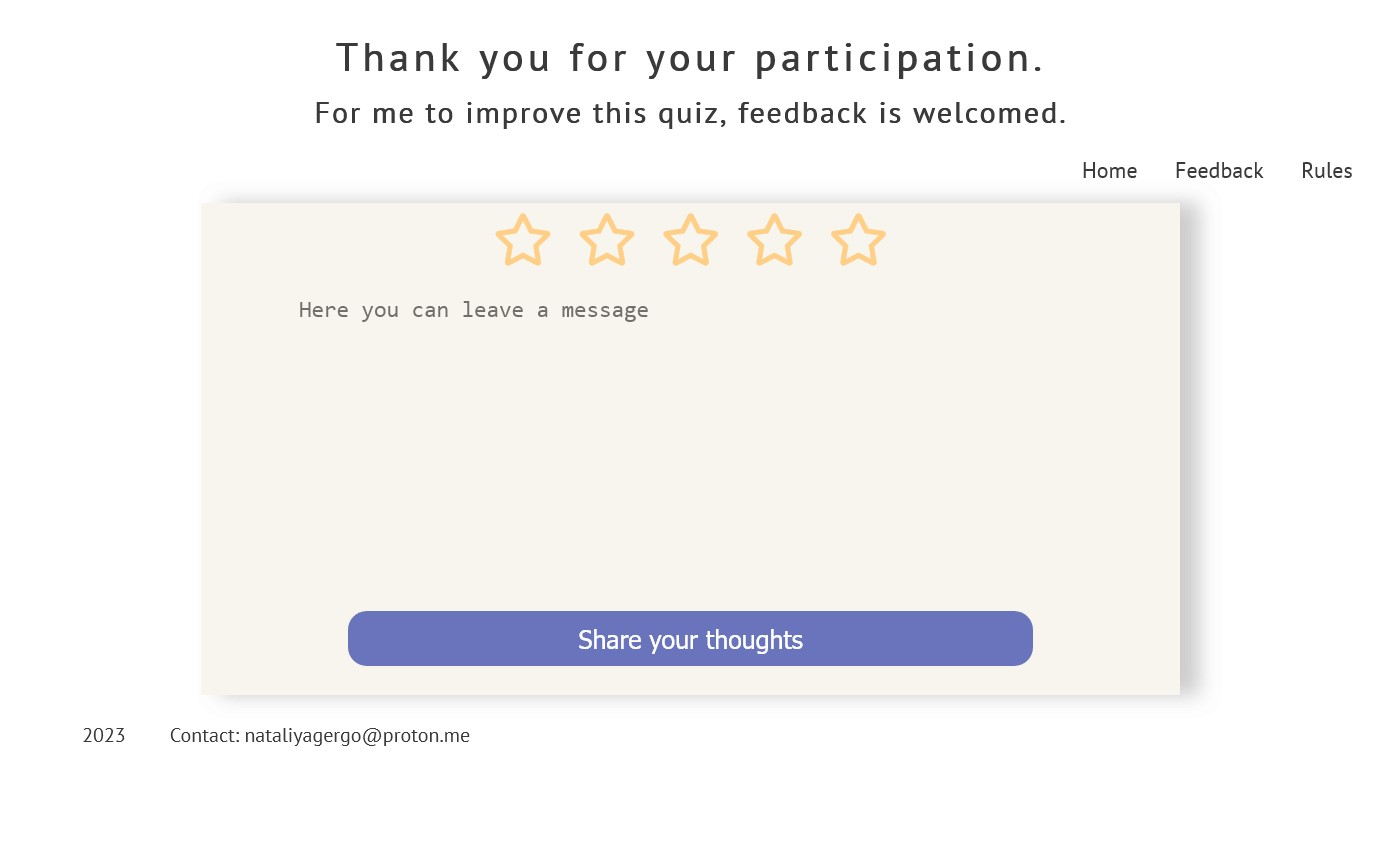
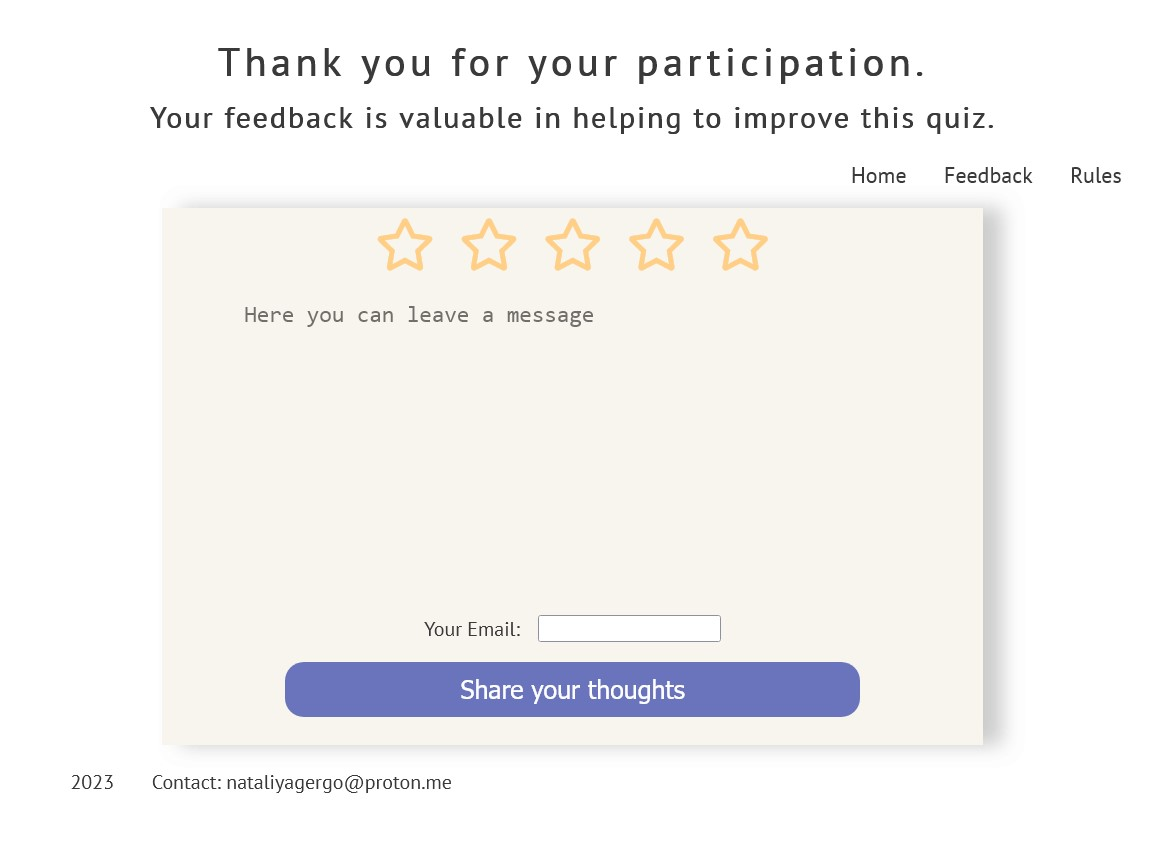
add pages croll overflow, edit feedback bottom

diff --git a/feedback.html b/feedback.html
@@ -9,7 +9,7 @@
     <meta name="keywords" content="quiz, test, logic, intellect, fun, logical game">
     <link rel="stylesheet" href="https://cdnjs.cloudflare.com/ajax/libs/font-awesome/5.12.0-1/css/all.min.css">
     <link rel="stylesheet" href="assets/css/style.css">
-    <title>Star rating feedback</title>
+    <title> Quiz feedback</title>
 </head>
 
 <body id="feedback-page">
@@ -33,27 +33,30 @@
     </header>
     <div>
         <div class="pack">
-    <div class="main_content">
-        <form action="https://formdump.codeinstitute.net" method="post" id="feedback-form" target="_blank" rel="noopener">
-            <input type="hidden" id="star-rating" name="starRating" value="">
-            <div class="stars">
-                <i class="star far fa-star" data-value="1"></i>
-                <i class="star far fa-star" data-value="2"></i>
-                <i class="star far fa-star" data-value="3"></i>
-                <i class="star far fa-star" data-value="4"></i>
-                <i class="star far fa-star" data-value="5"></i>
+            <div class="main_content">
+                <form action="https://formdump.codeinstitute.net" method="post" id="feedback-form" target="_blank"
+                    rel="noopener">
+                    <input type="hidden" id="star-rating" name="starRating" value="">
+                    <div class="stars">
+                        <i class="star far fa-star" data-value="1"></i>
+                        <i class="star far fa-star" data-value="2"></i>
+                        <i class="star far fa-star" data-value="3"></i>
+                        <i class="star far fa-star" data-value="4"></i>
+                        <i class="star far fa-star" data-value="5"></i>
+                    </div>
+                    <textarea name="feedbackText" rows="10" placeholder="Here you can leave a message"></textarea>
+                    <div class="email-section"></div>
+                    <div class="email-input-group">
+                        <label for="email">Your Email:</label>
+                        <input type="text" id="email" name="email">
+                    </div>
+                    <p id="email-error"></p>
+
+                    <button id="feedback-field" class="button">Share your thoughts</button>
             </div>
-            <textarea name="feedbackText" rows="10" placeholder="Here you can leave a message"></textarea>
-            <div class="email-section"></div>
-            <div class="email-input-group">
-            <label for="email">Your Email:</label>
-            <input type="text" id="email" name="email"></div>
-            <p id="email-error"></p>
-            
-            <button class="button">Share your thoughts</button><br>
-            </div>
-        </form>
-    </div>
+            </form>
+
+        </div>
 
     </div>
     <footer>

diff --git a/rules.html b/rules.html
@@ -8,7 +8,7 @@
     <meta name="description" content="A quiz to test logic">
     <meta name="keywords" content="quiz, test, logic, intellect, fun, logical game">
     <link rel="stylesheet" href="assets/css/style.css">
-    <title>online-quiz</title>
+    <title>quiz rules</title>
 </head>
 
 <body>
@@ -28,6 +28,7 @@
             </ul>
         </nav>
     </header>
+    
     <div class="pack">
         <div class="main_content">
             <h2>Welcome to our Logic Quiz!</h2>
@@ -58,6 +59,7 @@
             We hope you enjoy the quiz and wish you the best of luck! <br> <br>
         </div>
     </div>
+    
     <footer>
         <div class="contact">
             <ul>

diff --git a/assets/css/style.css b/assets/css/style.css
@@ -8,6 +8,8 @@ body {
     overflow: hidden;
     font-family: PT Sans, Arial;
     color: #3a3a3a;
+    overflow-y: auto;
+    height: 100vh;
 }
 
 /*navigation links*/
@@ -189,7 +191,9 @@ textarea {
     font-size: 1.4em;
     outline: none;
 }
-
+#feedback-field{
+    margin-bottom: 15px;
+}
 .credit a {
     text-decoration: none;
 }

diff --git a/assets/js/script.js b/assets/js/script.js
@@ -271,6 +271,6 @@ document.addEventListener("DOMContentLoaded", function () {
                 btns[i].className = "button button_wrong";
             }
         }
-        setTimeout(Update, 2500); // Wait for a second and update the quiz
+        setTimeout(Update, 1500); // Wait for a second and update the quiz
     }
 });

diff --git a/README.md b/README.md
@@ -2,25 +2,27 @@
 
 ## overview
 
-This project is a web-based logic quiz designed to test users' logical and reasoning skills. Users can interact with a series of logic-based questions, view the rules, and provide feedback. Each question offers multiple-choice answers. The quiz tracks the user's score and displays a result at the end, based on this score. The user interface is updated as the user progresses through the quiz.
-
-Moreover, the latter part of the script is dedicated to a star-rating feedback system. It listens for click events on each star and updates the visual display of the stars, as well as a hidden input value. This feedback system allows users to rate the quiz after they complete it.
+This project is a web-based logic quiz designed to test users' logical and reasoning skills. Users can interact with a series of logic-based questions, view the rules, and provide feedback upon completion. <br>
+Each question in the quiz presents multiple-choice answers, and the system keeps track of the user's score. At the end of the quiz, the user receives a result based on their total score. The user interface dynamically updates as the user progresses through the quiz, reflecting real-time performance.<br>
+A significant enhancement in this version is the incorporation of client-side email validation in the feedback form. Now, the system checks the validity of the email provided by the user in real-time, and provides immediate feedback if the email format doesn't comply with the standard format, improving the overall user experience.<br>
+Furthermore, the project features a star-rating feedback system. This system listens for click events on each star and updates the visual display of the stars, as well as a hidden input value. This interactive and visual feedback system allows users to rate their experience with the quiz once they complete it. <br>
+Behind the scenes, we've also made significant improvements to the JavaScript logic to ensure the smooth functioning of the quiz and the feedback form, and prevent any conflicts between the two. We have separated the feedback page and the quiz page by adding a body id attribute to the HTML structure, allowing the different JavaScript functionalities to operate independently of each other.
 
 ![This is a screenshot of pages of the website](assets/images/screens.jpg "This is a screenshot of pages of the website")
 
 ## Features
 
--  Home Page: The home page introduces users to the quiz, providing them with the opportunity to test their logic.
+- Home Page: The home page introduces users to the quiz, providing them with the opportunity to test their logic.
 - Rules Page: The Rules page helps users familiarize themselves with the quiz structure, including how to answer questions, the scoring system, and how results are presented.
 - Feedback Page: The Feedback page offers users a platform to leave star ratings and textual feedback about their experiences with the quiz.
 
 ## Existing Features
 
 - Navigation Bar
-  - Featured on all three page and is identical in each page to allow for easy navigation.
-  - This section will allow users to easily navigate with all devices without having to revert to the previous page via the "back" button.
+  - Featured on all three page and is identical in each, allowing for easy navigation.
+  - This section allows users to easily navigate with all devices without having to revert to the previous page via the "back" button.
 - Logic Quiz
-  - The core feature of this application is a logic quiz. It is designed with various logical questions that test the user's ability to deduce and infer from the given information.
+  - The core feature of this application is a logic quiz designed with various logical questions that test the user's ability to deduce and infer from the given information.
 - Multiple Choice Questions
   - Each question in the quiz is a multiple-choice question. Users can choose one of the given options as their answer.
 - Automated Scoring
@@ -28,17 +30,23 @@ Moreover, the latter part of the script is dedicated to a star-rating feedback s
 - Dynamic Quiz Progression
   - As the user goes through the quiz, the user interface updates dynamically. The current question and multiple-choice options are displayed, and the question count is updated.
 - Answer Validation
-  - Once a user selects an answer, the app validates the answer. If the answer is correct, it is highlighted in green, and if the answer is incorrect, it is highlighted in red. The correct answer is also revealed if the user gets the question wrong. ![This is a screenshot of a page of the website](assets/images/medium_screen.jpg "This is a screenshot of a page of the website") ![This is a screenshot of a page of the website](assets/images/answers.jpg "This is a screenshot of a page of the website")
+  - Once a user selects an answer, the app validates the answer. If the answer is correct, it is highlighted in green, and if the answer is incorrect, it is highlighted in orange. The correct answer is also revealed if the user gets the question wrong. ![This is a screenshot of a page of the website](assets/images/medium_screen.jpg "This is a screenshot of a page of the website") ![This is a screenshot of a page of the website](assets/images/answers.jpg "This is a screenshot of a page of the website")
 - End-of-Quiz Results
   - At the end of the quiz, a result is displayed based on the user's total score. There are different results depending on the range in which the user's score falls.![This is a screenshot of a page of the website](assets/images/result.jpg "This is a screenshot of a page of the website")
-- Interactive Star Rating Feedback System ![This is a screenshot of a page of the website](assets/images/feedback_completed.jpg "This is a screenshot of a page of the website")
-  - After completing the quiz, users can provide feedback by giving a star rating. The rating system is interactive, with the stars changing color when clicked. The submitting page opens in a new window. ![This is a screenshot of a page of the website](assets/images/data.jpg "This is a screenshot of a page of the website")
+- Interactive Star Rating Feedback System ![This is a screenshot of a page of the website](assets/images/feedback_empty.jpg "This is a screenshot of a page of the website")
+- Client-Side Email Validation
+  - The feedback form now includes a client-side email validation feature. It checks the validity of the email entered by the user in real-time and provides immediate feedback if the email format doesn't comply with the standard.![This is a screenshot of a page of the website](assets/images/email_wrong.jpg "This is a screenshot of a page of the website")
+  - After completing the quiz, users can provide feedback by giving a star rating. The rating system is interactive, with the stars changing color when clicked. The user feedback is recorded in a separate feedback form that opens in a new window. ![This is a screenshot of a page of the website](assets/images/data.jpg "This is a screenshot of a page of the website")
+- Improved Script Logic
+
+  - Significant improvements have been made to the JavaScript logic to ensure the smooth functioning of the quiz and the feedback form, and prevent any conflicts between the two. The feedback page and the quiz page have been effectively separated using a body id attribute in the HTML structure.
+
 - Responsive Design
   - The quiz application is designed to work seamlessly across different device sizes and orientations, making it accessible to users on desktops, tablets, and smartphones.
 - Clean, User-Friendly Interface
   - The application boasts a clean, intuitive interface that makes it easy for users to navigate through the quiz and understand how to interact with the application.
 
-## UX
+## User Experiencr (UX)
 
 - Easy to Start
   - As soon as a user arrives at the application, they are greeted with the first question of the quiz, along with multiple-choice options. There's no need to navigate through menus or click a 'start' button, which provides a seamless start to the experience.
@@ -90,7 +98,7 @@ Manual testing of all links and necessary features was done in previously mentio
 | Quiz Answer Buttons | When clicked, the quiz starts | Clicked the Quiz answer buttons | Quiz started successfully |
 | Quiz Questions | The user is presented with a new question after answering the previous one | Answered a question in the quiz | The next question appeared |
 | Quiz results | After completing the quiz, the user is presented with their score | Completed the quiz | The user's score was displayed correctly |
-| Mobile Responsiveness | Site should be fully responsive on mobile devices | Tested site on different mobile devices | Site is fully responsive and functional on mobile devices |
+| Mobile Responsiveness | Site should be fully responsive on mobile devices | Tested site on different mobile devices | Site is fully responsive and functional on mobile devices |Email input validation|Input should validate whether user email is in correct format |Entered emails in different formats, both valid and invalid | Correctly validated email format, giving appropriate feedback for invalid formats|
 
 ## Manual testing of user stories
 
@@ -134,6 +142,14 @@ A visitor expects to have fun while interacting with the quiz.
 
 As a visitor, I found the quiz to be engaging and challenging, making it a fun experience for me.
 
+### Expectation
+
+A visitor wants to be assured that their email address is correctly inputted before submission.
+
+### Result
+
+As a visitor, I found an email validation feature in the feedback form which notified me if my email was incorrectly formatted, ensuring that I was able to submit my feedback successfully.
+
 ## Deployment
 
 The project was deployed to GitHub Pages using the following steps:
@@ -153,6 +169,7 @@ The project was deployed to GitHub Pages using the following steps:
 - The rest of the text including the rules was composed by me and is my intellectual property.
 - The concept for developing an online quiz was inspired by [e-kucheriavyi](https://github.com/evgeniikucheriavii/JS-quizes)
 - The instructions for creating a star-rating feedback system were taken from [learningrobo.com](https://www.learningrobo.com/2021/09/responsive-feedback-form-with-star.html)
+- The concept for developing an online email validator was inspired by [stackoverflow.com](https://stackoverflow.com/questions/5342375/regex-email-validation) and [abstract](https://www.abstractapi.com/tools/email-regex-guide)
 - The instructions for creating README file were taken from CodeInstitute Educational materials. [CodeInstituteREADME template](https://github.com/Code-Institute-Solutions/readme-template), Codeinstitute README presentation and [markdownlivepreview](https://markdownlivepreview.com/).
 - I would like to acknowledge the beginner resources for front-end at [W3Schools](https://w3schools.com) and extensive notes and tips hosted by the [Mozilla Foundation](developer.mozilla.org).
 - A big thanks you goes to the helpful community at [StackOverFlow](https://stackoverflow.com), for aiding in troubleshooting and refining my code.
@@ -201,6 +218,14 @@ The project was deployed to GitHub Pages using the following steps:
 
 - [Font Awesome](https://fontawesome.com/)
   - Font Awesome was used to add icons for improved user interface design and UX.
+
+### Future Enhancements
+
+As part of my ongoing commitment to improving the user experience and the educational value of this application, I plan to implement additional features as time permits. One such feature is the inclusion of logic explanations for the correct answers.
+
+Explanation of Correct Answers (Planned)
+
+- In the future, I aim to add explanations for the logic behind the correct answers to each question. This feature is intended to serve as a learning resource for users who want to understand how the correct answer was derived. The explanations will be displayed in a section beneath the main answers, providing users with immediate feedback and an opportunity to learn as they progress through the quiz.
 
 ## Acknowledgements
 
